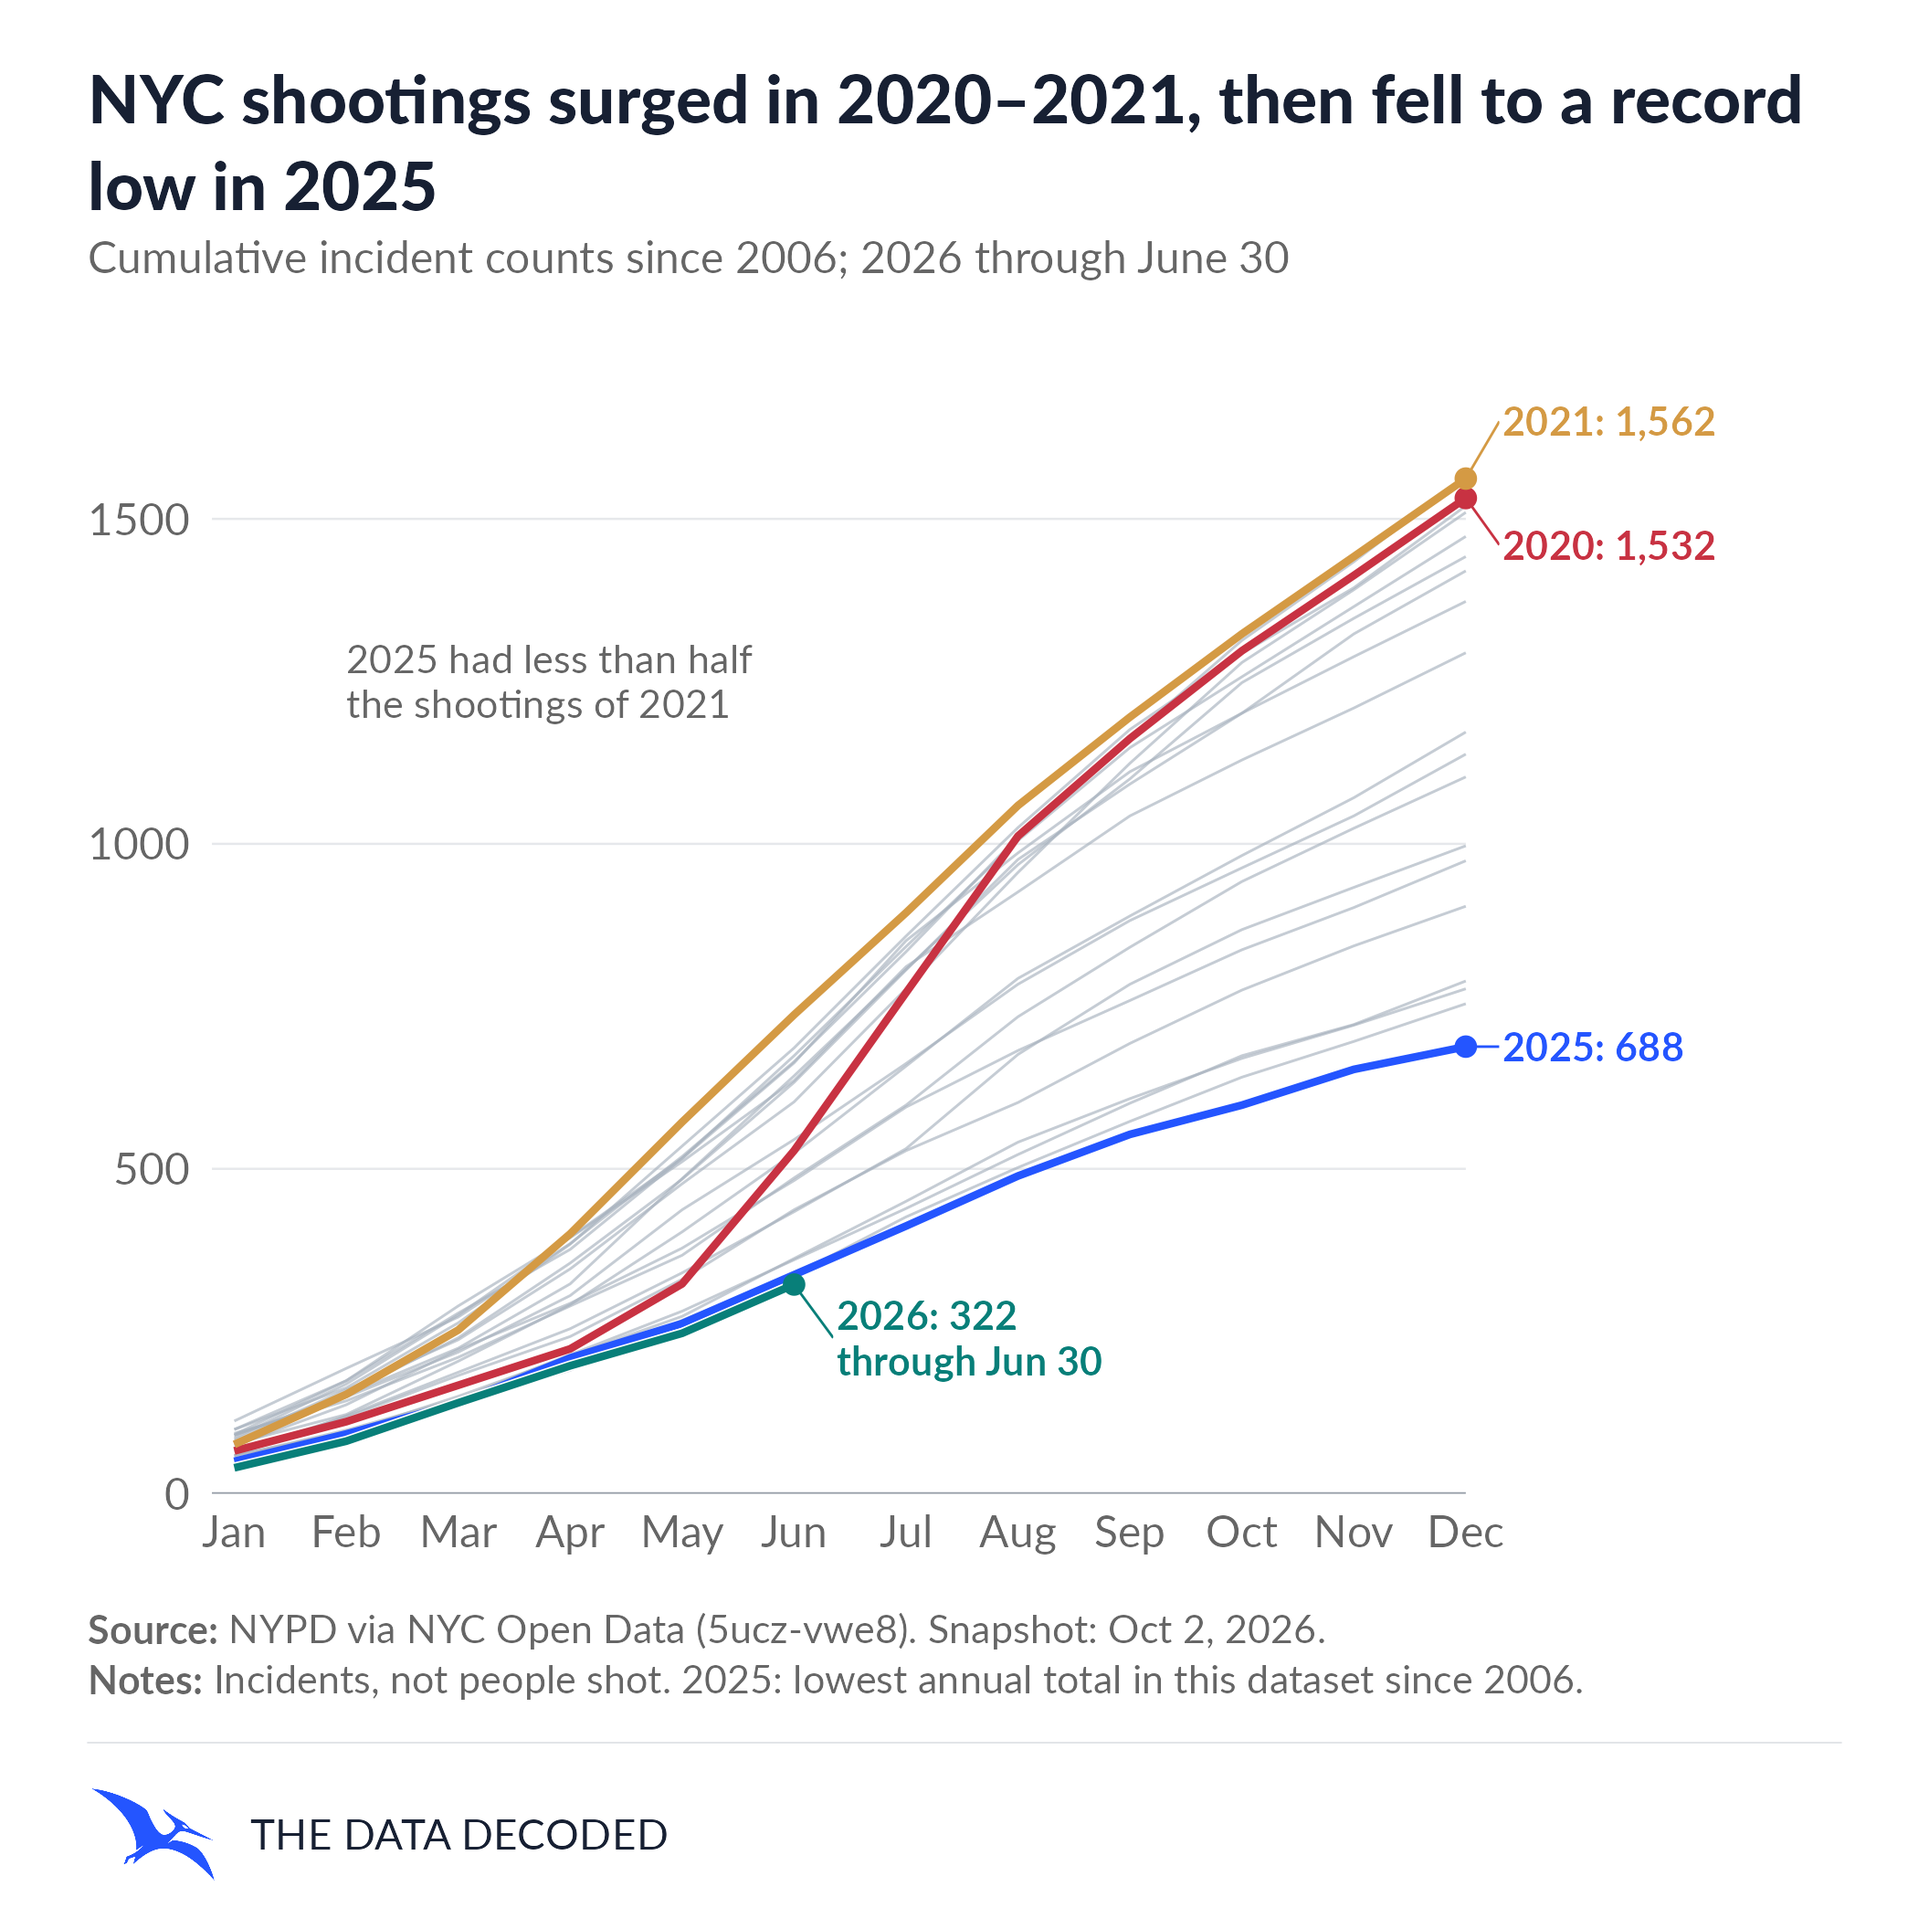
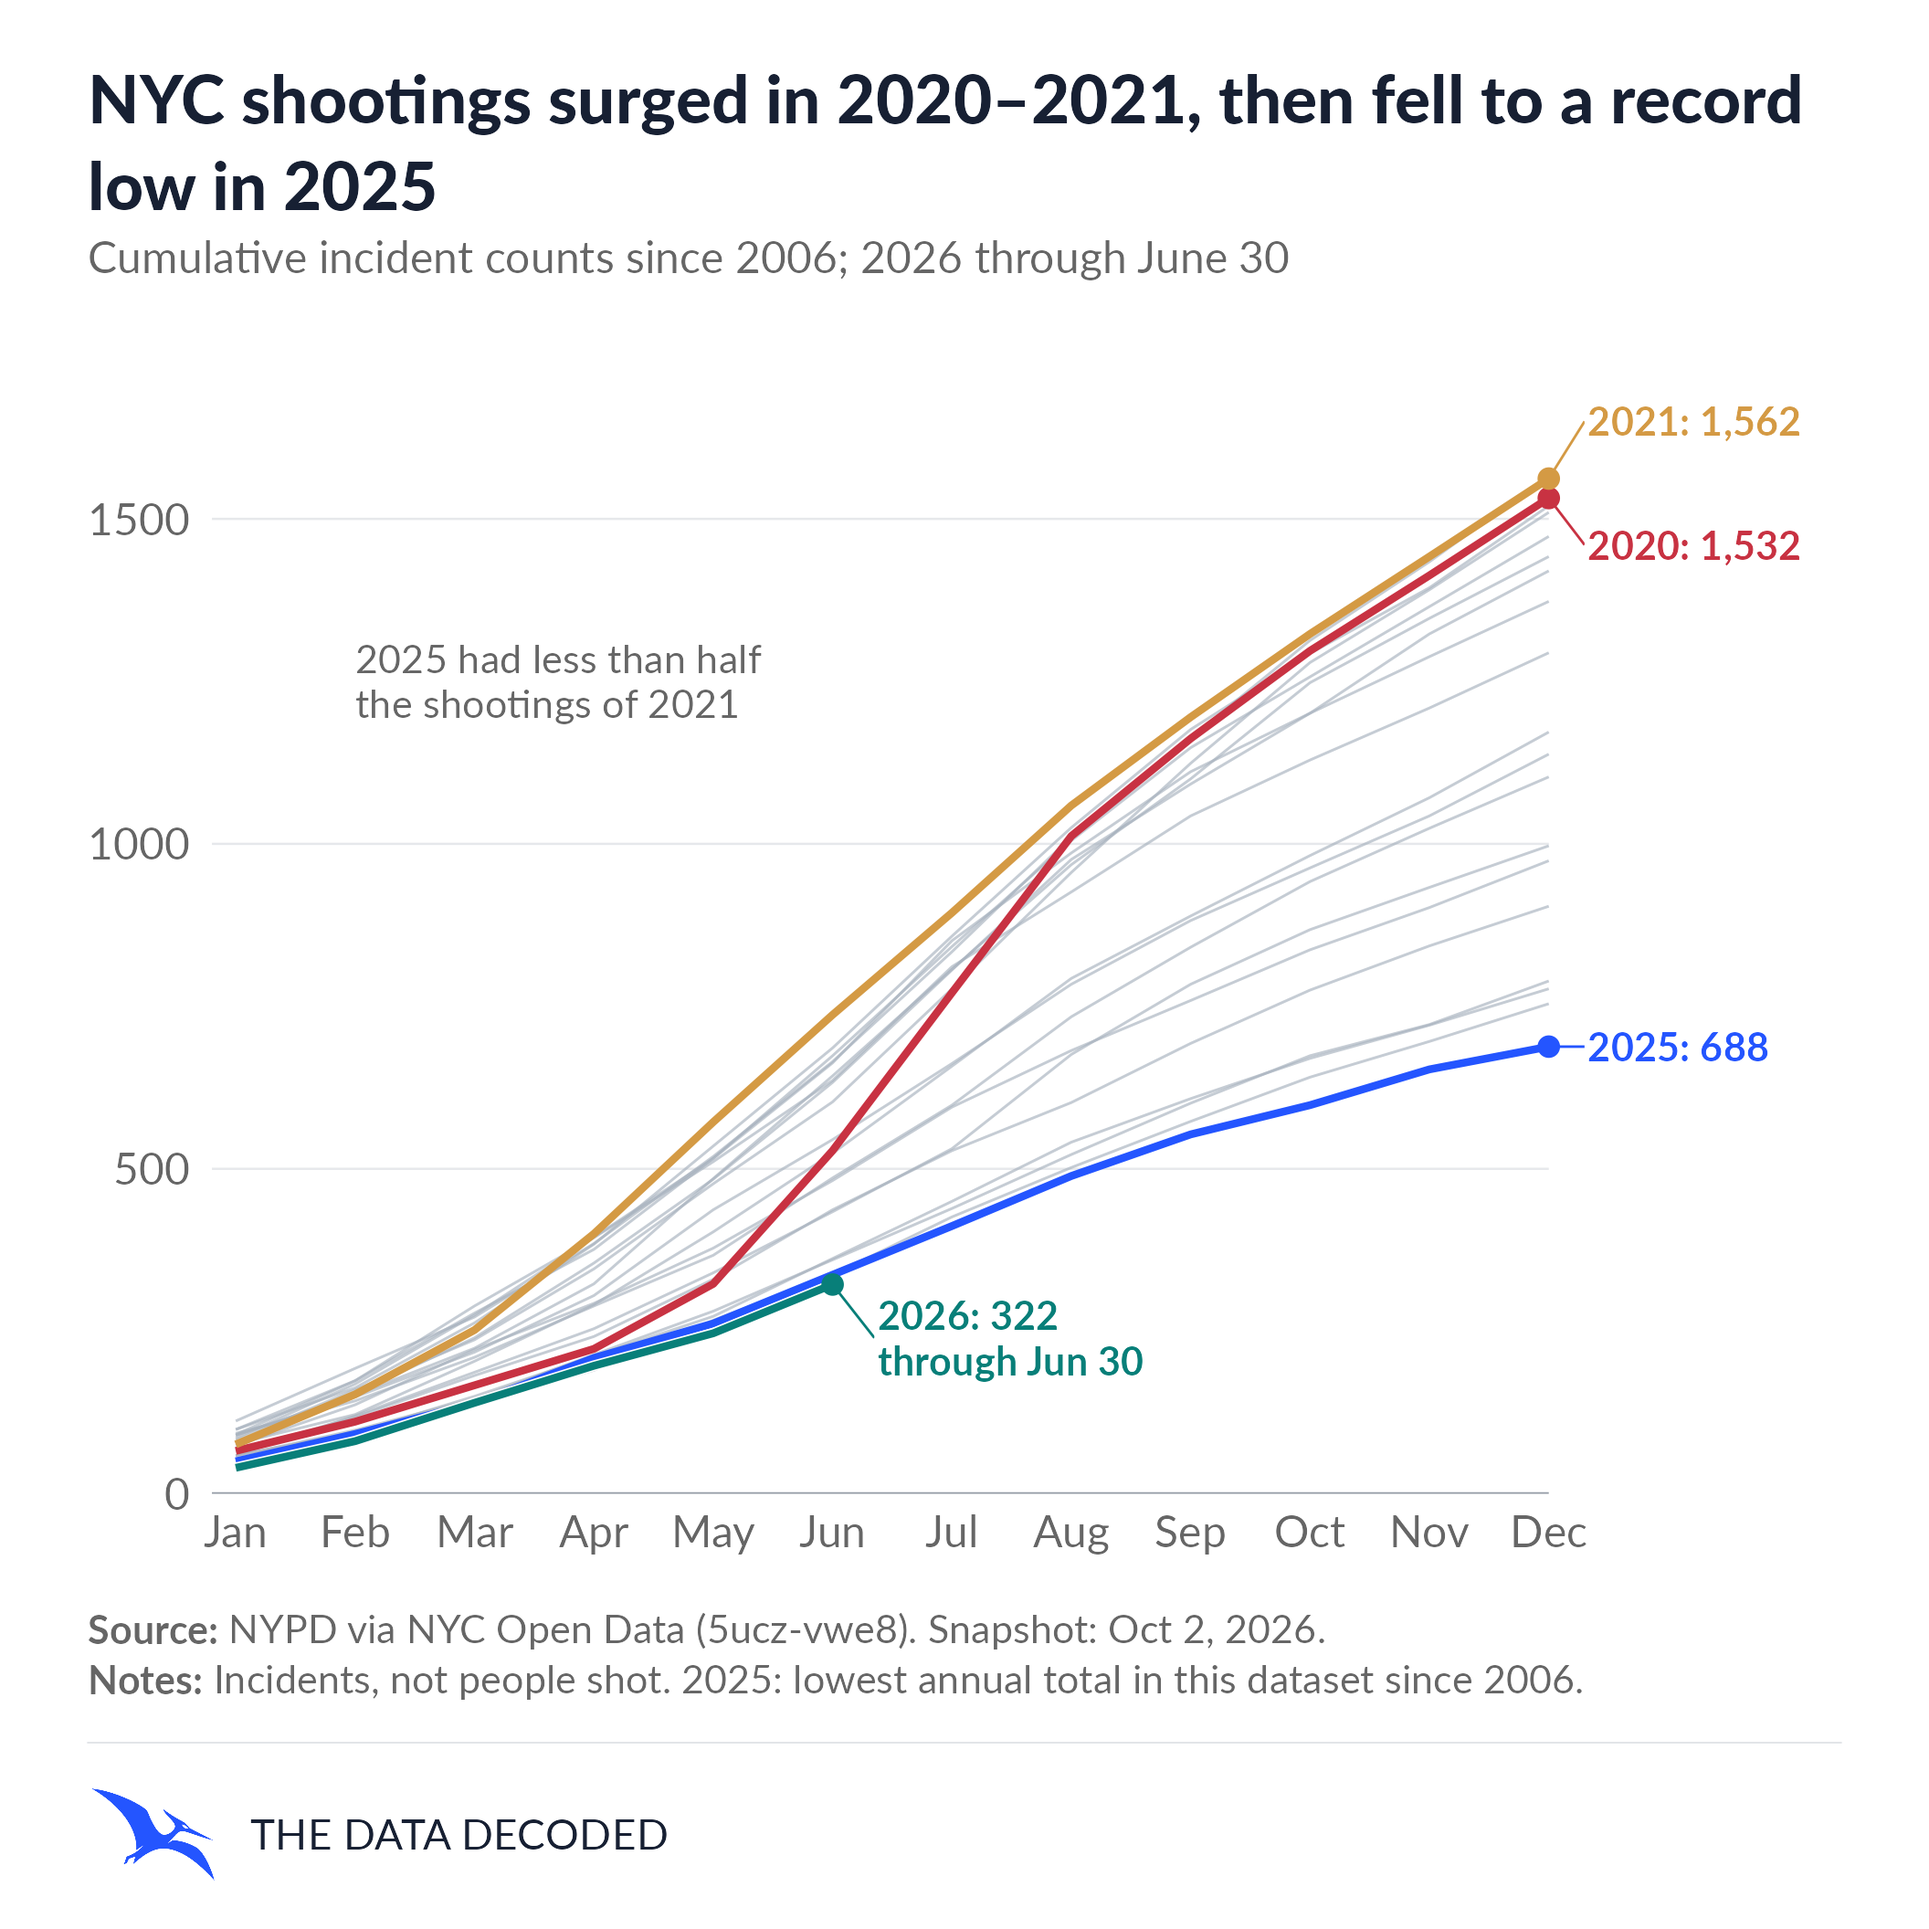
Reduce NYC chart right-hand label margin

Changed region(s): [[0.125, 0.1875, 0.9375, 0.7812], [0.1562, 0.7812, 0.8125, 0.8125], [0.1875, 0.3125, 0.375, 0.375]]

diff --git a/visuals/2026-10-nyc-shootings/presentation-review.md b/visuals/2026-10-nyc-shootings/presentation-review.md
@@ -42,3 +42,4 @@ Monthly title now reads: "The summer 2020 spike stands out against 2025’s lowe
 Monthly 2026 annotation position refined to x=6.4, y=61: both lines now sit below the blue series and above the 50-incident gridline. Regenerated PNG/SVG and visually reviewed; Regular weight and transparent background retained.
 Monthly 2020 endpoint connector now slopes below the amber 2021 point, with 2020 label at 105 and 2021 at 140. Multiline series labels and annotations on both charts now use 0.95 lineheight (previously 1.05; cumulative comparison previously 1.15). Regenerated PNG/SVG exports and visually reviewed; title, footer, typography sizes and calculations retained.
 Clarified endpoint printing order: monthly connectors now render before endpoint points, so the amber 2021 point covers the red 2020 connector. Restored original label positions (2020 above, 2021 below). Restored monthly "2026: 322" and shortened its connector by 0.10 month to leave a gap before the text. July 2020 annotation adds "highest month since 2006", supported by the saved monthly table maximum (243). Regenerated monthly PNG/SVG and visually reviewed.
+Right-hand label margin reduced: shared x-domain upper limit 15.3 to 14.4, reducing reserved December-to-edge space by about 22% and widening the historical data area by about 6.6%. Square canvas, title/footer alignment and export resolution retained. Both PNG/SVG pairs regenerated; full-size review found endpoint totals clear of the right edge, with no annotation collisions.
